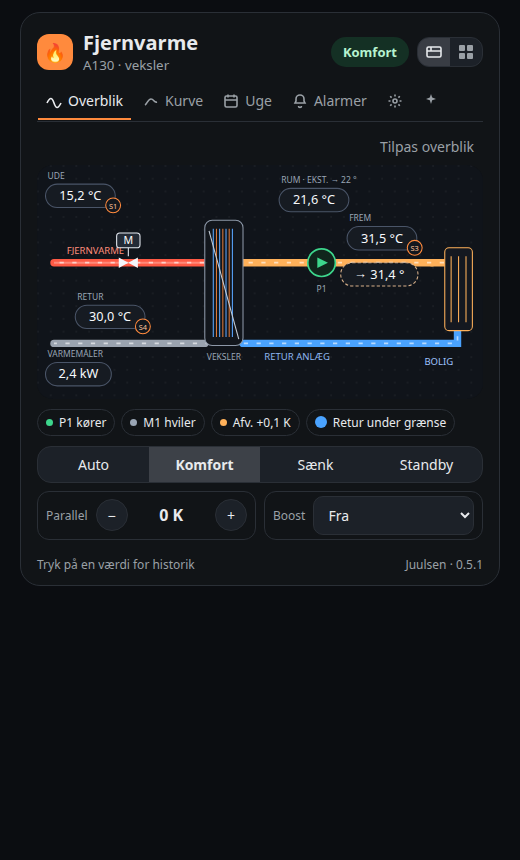
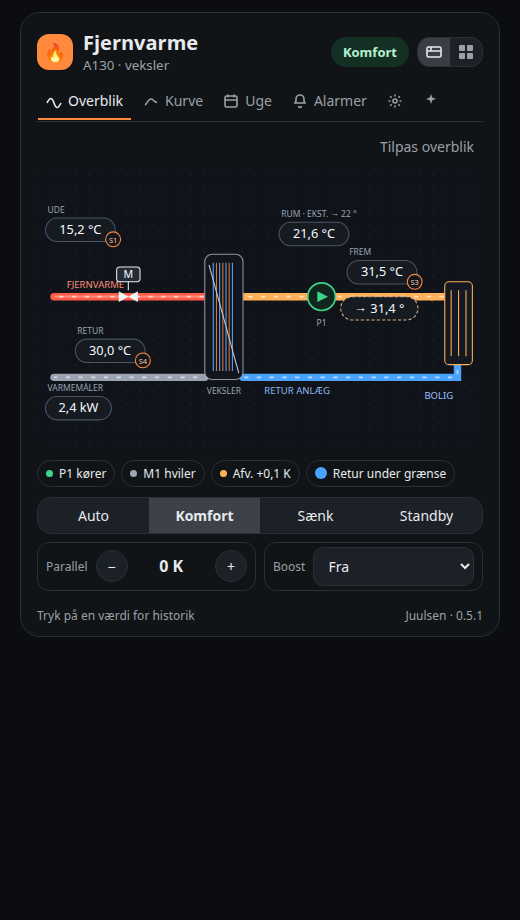
Keep diagram labels inside the SVG frame.
Extend the viewBox above the pills so captions such as the external room label are not clipped on narrow cards.

diff --git a/custom_components/danfoss_ecl110_modbus/frontend/ecl110-diagram.js b/custom_components/danfoss_ecl110_modbus/frontend/ecl110-diagram.js
@@ -73,10 +73,10 @@
     let extras = '';
     if (!has('s2') && v.room) extras += loose(228, 22, v.room_target ? 'RUM · EKST. → ' + v.room_target : 'RUM · EKST.', 'room', v.room, false);
     if (v.desired_flow) extras += loose(286, 92, '', 'desired_flow', v.desired_flow, true);
-    return `<svg viewBox="0 0 420 220" width="100%" data-plant-type="${plant.type}" role="img">
+    return `<svg viewBox="0 -32 420 268" width="100%" data-plant-type="${plant.type}" role="img">
       <style>text{font-family:${FONT}}</style>
       <defs><pattern id="ecldots" width="12" height="12" patternUnits="userSpaceOnUse"><circle cx="1" cy="1" r="0.7" fill="#ffffff18"/></pattern></defs>
-      <rect width="420" height="220" rx="12" fill="#10141a"/><rect width="420" height="220" fill="url(#ecldots)"/>
+      <rect x="0" y="-32" width="420" height="268" rx="12" fill="#10141a"/><rect x="0" y="-32" width="420" height="268" fill="url(#ecldots)"/>
       <path d="M16 92 H158" stroke="#ff5a45" stroke-width="7" fill="none" stroke-linecap="round"/>
       <path d="M16 92 H158" stroke="#ffb0a4" stroke-width="2" fill="none" opacity="0.55"/>
       <path d="M194 92 H372" stroke="${hot}" stroke-width="7" fill="none" stroke-linecap="round"/>
